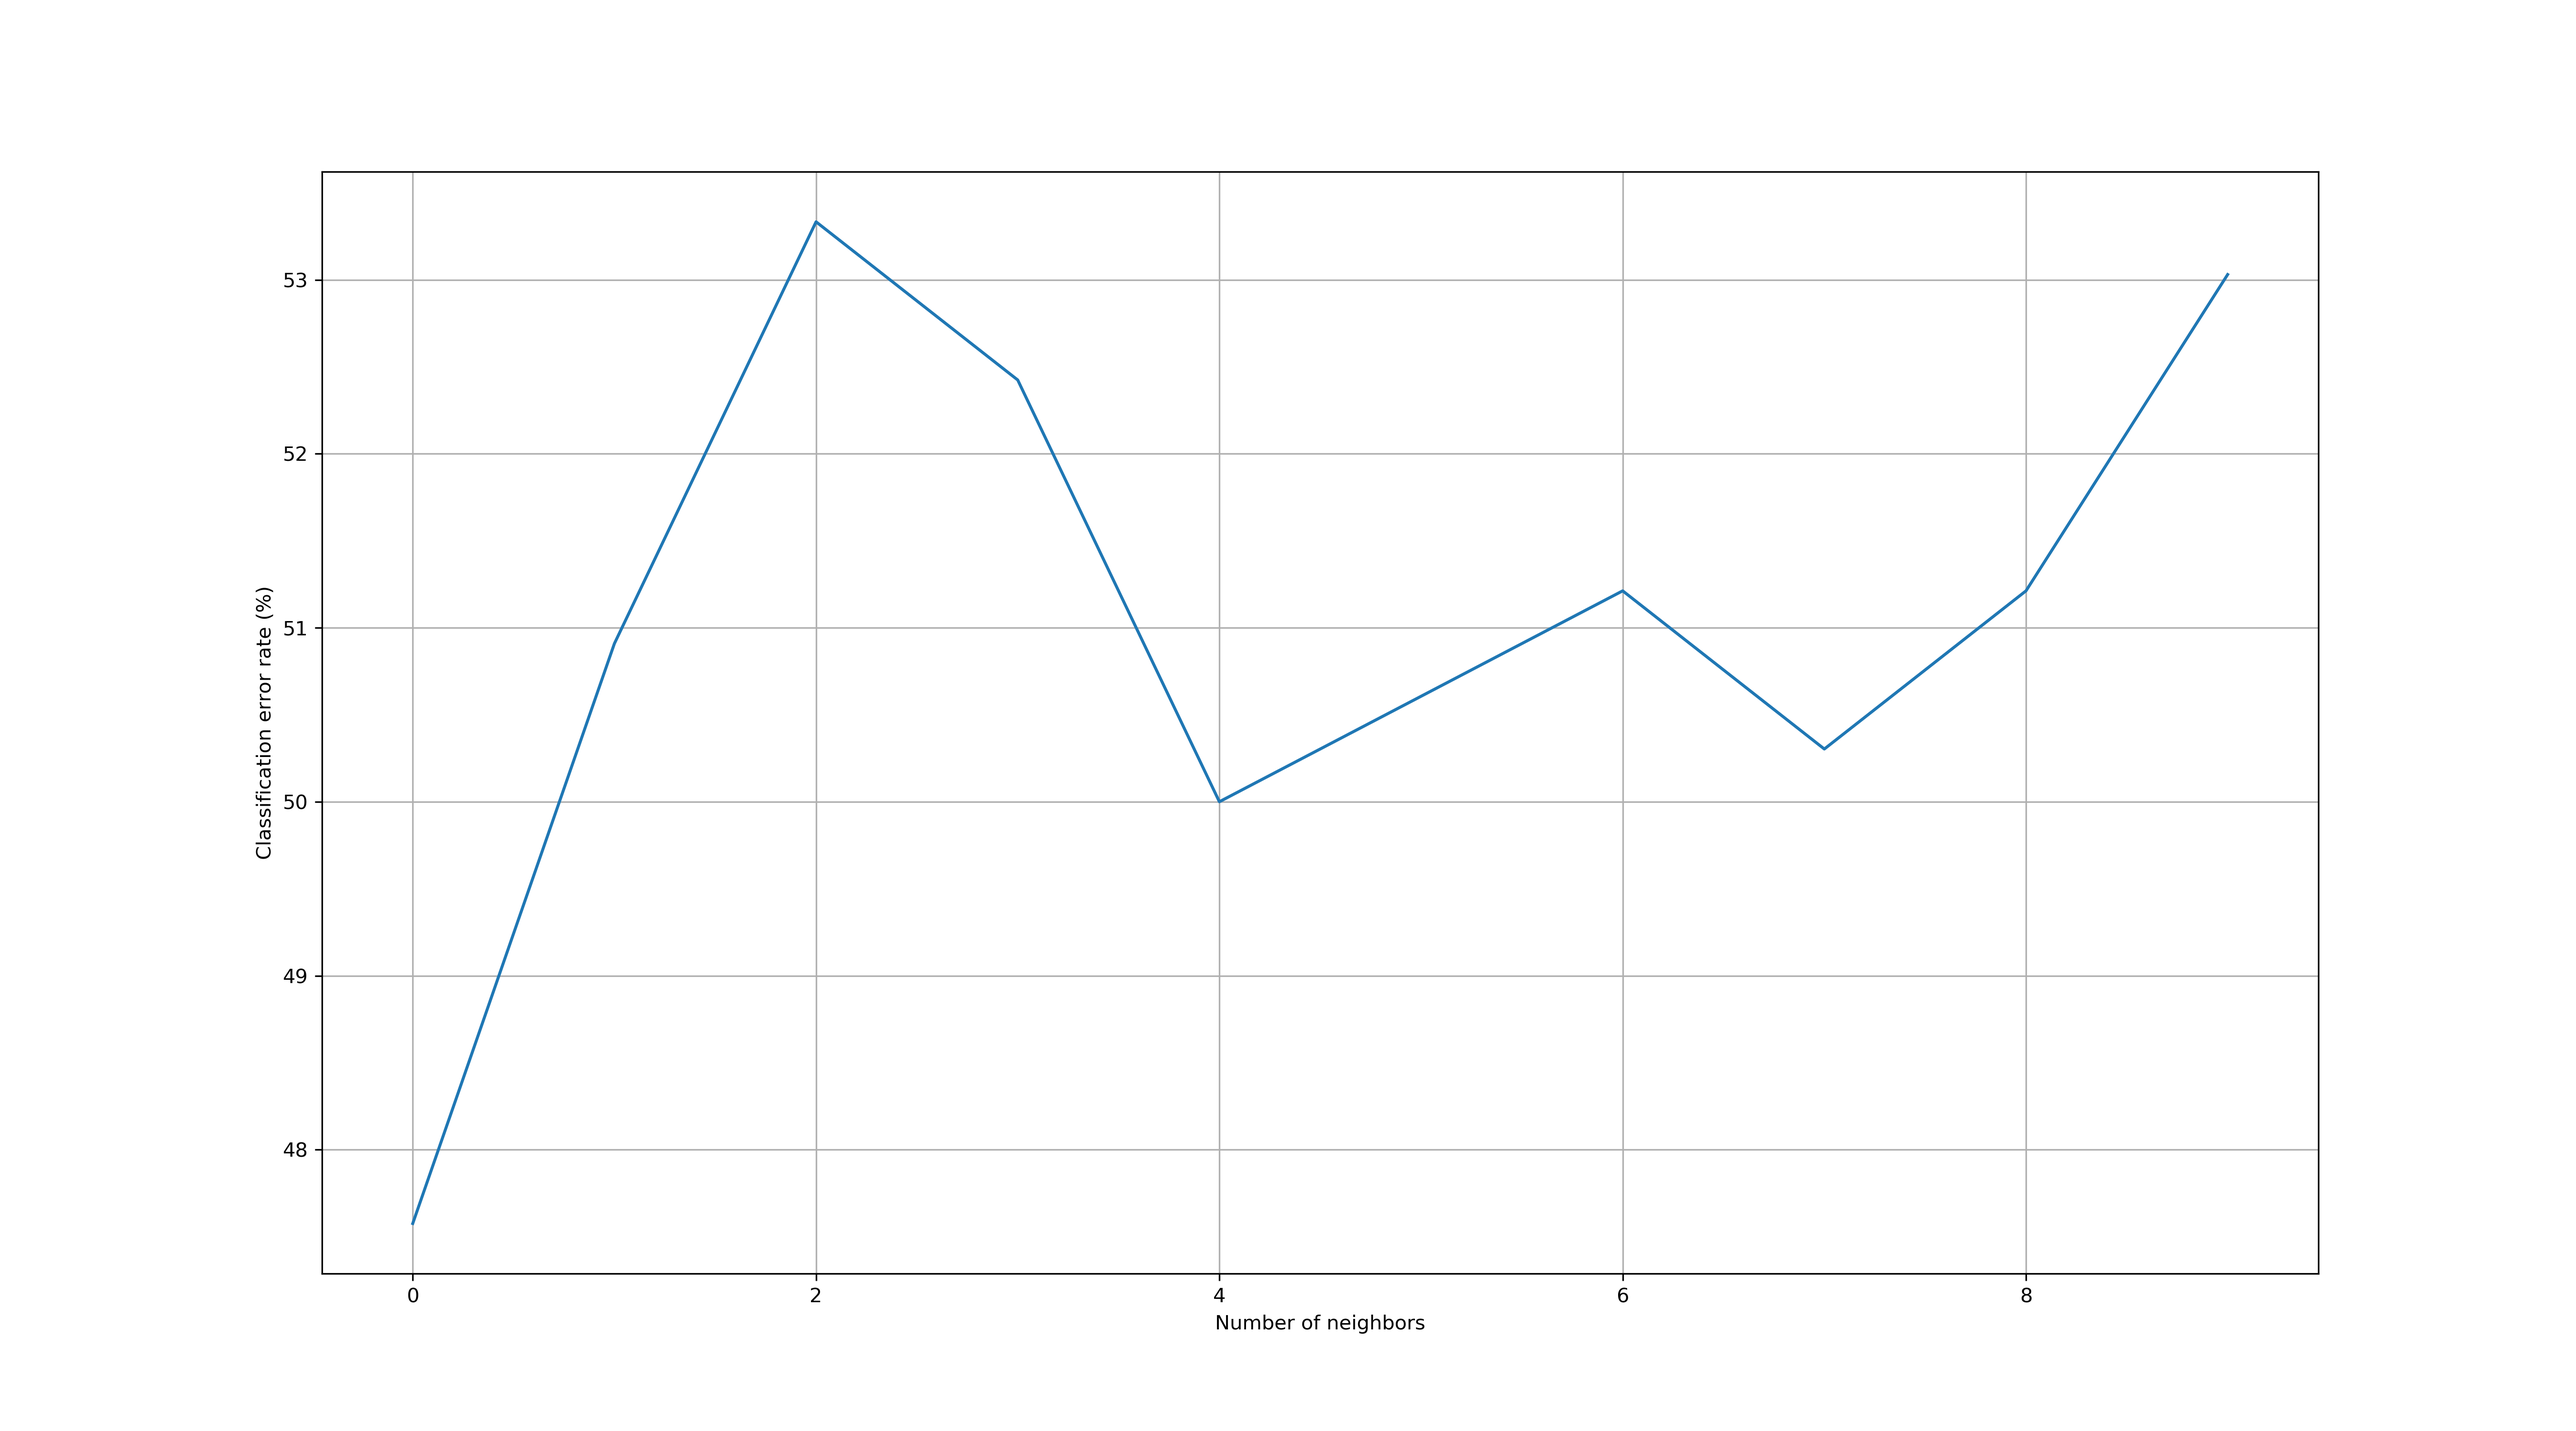
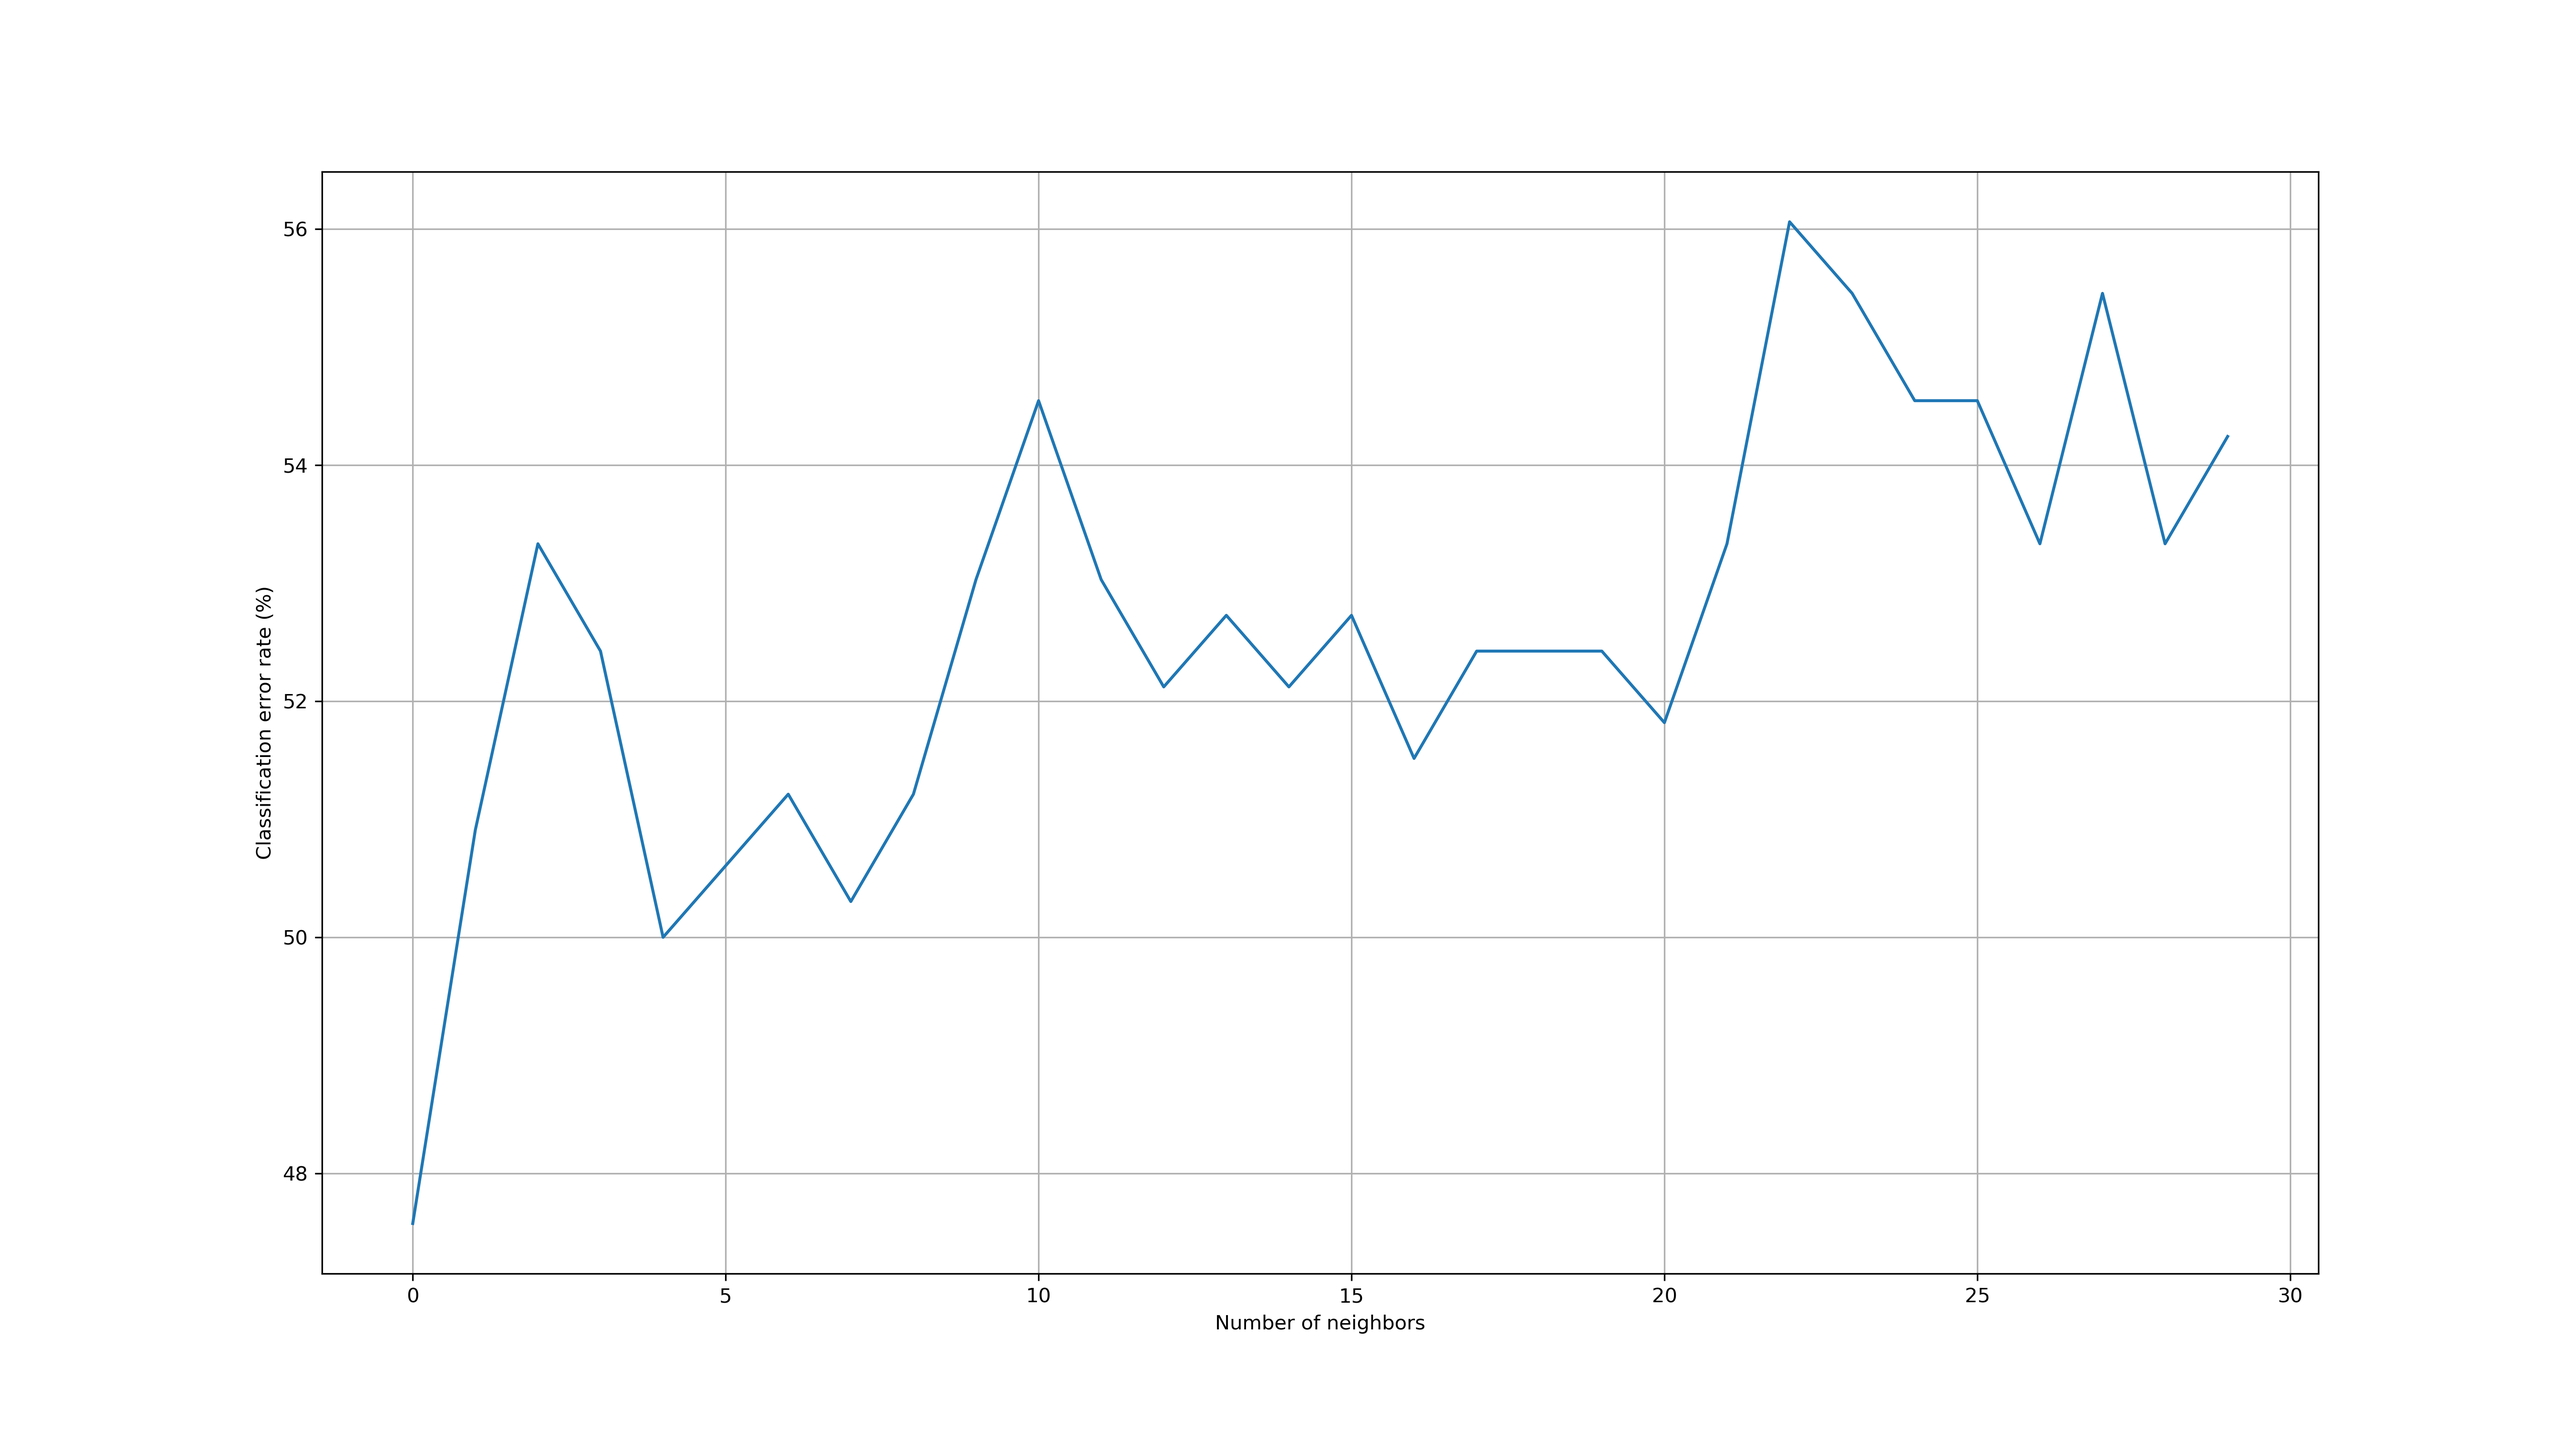
Multi-level cross validation on KNN

diff --git a/Classification/oz_K-foldComparison.py b/Classification/oz_K-foldComparison.py
@@ -1,0 +1,123 @@
+from importData import *
+
+
+# exercise 6.2.1
+
+import sklearn.linear_model as lm
+from sklearn import model_selection
+from sklearn.neighbors import KNeighborsClassifier, DistanceMetric
+import sys
+sys.path.insert(1, "Tools/toolbox_02450")
+from __init__ import feature_selector_lr, bmplot
+
+
+# Load data from matlab file
+# mat_data = loadmat('./Data/body.mat')
+# X = mat_data['X']
+# y = mat_data['y'].squeeze()
+# attributeNames = [name[0] for name in mat_data['attributeNames'][0]]
+X = Y[:,:M-C]
+N, M = X.shape
+
+
+## Crossvalidation
+# Create crossvalidation partition for evaluation
+K = 10
+CV = model_selection.KFold(n_splits=K,shuffle=True)
+
+multiRegres_errorRate = [None] * K
+KNN_Ks_Used = [None] * K
+KNN_errorRate = [None] * K
+
+# Initialize variables
+Features = np.zeros((M,K))
+Error_train = np.empty((K,1))
+Error_test = np.empty((K,1))
+Error_train_fs = np.empty((K,1))
+Error_test_fs = np.empty((K,1))
+Error_train_nofeatures = np.empty((K,1))
+Error_test_nofeatures = np.empty((K,1))
+
+k=0
+for train_index, test_index in CV.split(X):
+    
+    # extract training and test set for current CV fold
+    X_train = X[train_index,:]
+    y_train = y[train_index]
+    X_test = X[test_index,:]
+    y_test = y[test_index]
+
+    fold_N, fold_M = X_train.shape
+
+
+
+    print('Cross validation fold {0}/{1}'.format(k+1,K))
+    print('Train indices: {0}'.format(train_index))
+    print('Test indices: {0}'.format(test_index))
+
+    #Baseline
+    
+
+    # Multinomial regression
+    regularization_strength = 1e-5
+    mdl = lm.LogisticRegression(solver='lbfgs', multi_class='multinomial', 
+                                tol=1e-4, random_state=1, 
+                                penalty='l2', C=1/regularization_strength)
+    mdl.fit(X_train,y_train)
+    y_test_est = mdl.predict(X_test)
+
+    multiRegres_errorRate[k] = np.sum(y_test_est!=y_test)  / len(y_test)
+
+    # K-nearest neighbors
+
+    # Maximum number of neighbors
+    KNN_L=20
+
+    KNN_CV = model_selection.LeaveOneOut()
+    KNN_errors = np.zeros((fold_N,KNN_L))
+    i=0
+    for KNN_train_index, KNN_test_index in KNN_CV.split(X_train, y_train):
+        print('Crossvalidation fold: %s/%s' % (i+1,fold_N))    
+    
+        # extract training and test set for current CV fold
+        KNN_X_train = X_train[KNN_train_index,:]
+        KNN_y_train = y_train[KNN_train_index]
+        KNN_X_test = X_train[KNN_test_index,:]
+        KNN_y_test = y_train[KNN_test_index]
+
+    # Fit classifier and classify the test points (consider 1 to 40 neighbors)
+        for l in range(1,KNN_L+1):
+            knclassifier = KNeighborsClassifier(n_neighbors=l)
+            knclassifier.fit(KNN_X_train, KNN_y_train)
+            y_est = knclassifier.predict(KNN_X_test)
+            KNN_errors[i,l-1] = np.sum(y_est[0]!=KNN_y_test[0])
+
+
+        i+=1
+    
+    KNN_errors_temp = KNN_errors.sum(axis=1)
+
+    KNN_K = np.argmin(KNN_errors_temp[1:]) + 1
+    KNN_Ks_Used[k] = KNN_K
+    dist=2
+    metric = 'minkowski'
+    metric_params = {} 
+
+    knclassifier = KNeighborsClassifier(n_neighbors=KNN_K, p=dist, 
+                                    metric=metric,
+                                    metric_params=metric_params)
+    knclassifier.fit(X_train, y_train)
+    y_est = knclassifier.predict(X_test)
+
+    KNN_errorRate[k] = np.sum(knclassifier.predict(X_test)!=y_test)  / len(y_test)
+
+
+
+    k+=1
+
+
+# Display results
+print('\n')
+print(multiRegres_errorRate)
+print(KNN_errorRate)
+print(KNN_Ks_Used)

diff --git a/Classification/oz_multinomialRegression.py b/Classification/oz_multinomialRegression.py
@@ -1,4 +1,5 @@
 import sklearn.linear_model as lm
+
 import sys
 sys.path.insert(1, "Tools/toolbox_02450")
 from __init__ import dbplotf, train_neural_net, visualize_decision_boundary
@@ -45,7 +46,7 @@ X_test = (X_test - mu) / sigma
 
 
 
-    # Fit multinomial logistic regression model
+# Fit multinomial logistic regression model
 
 regularization_strength = 1e-5
     #Try a high strength, e.g. 1e5, especially for synth2, synth3 and synth4

diff --git a/Classification/oz_classificationBaseline.py b/Classification/oz_classificationBaseline.py
@@ -1,0 +1,2 @@
+from importData import *
+
